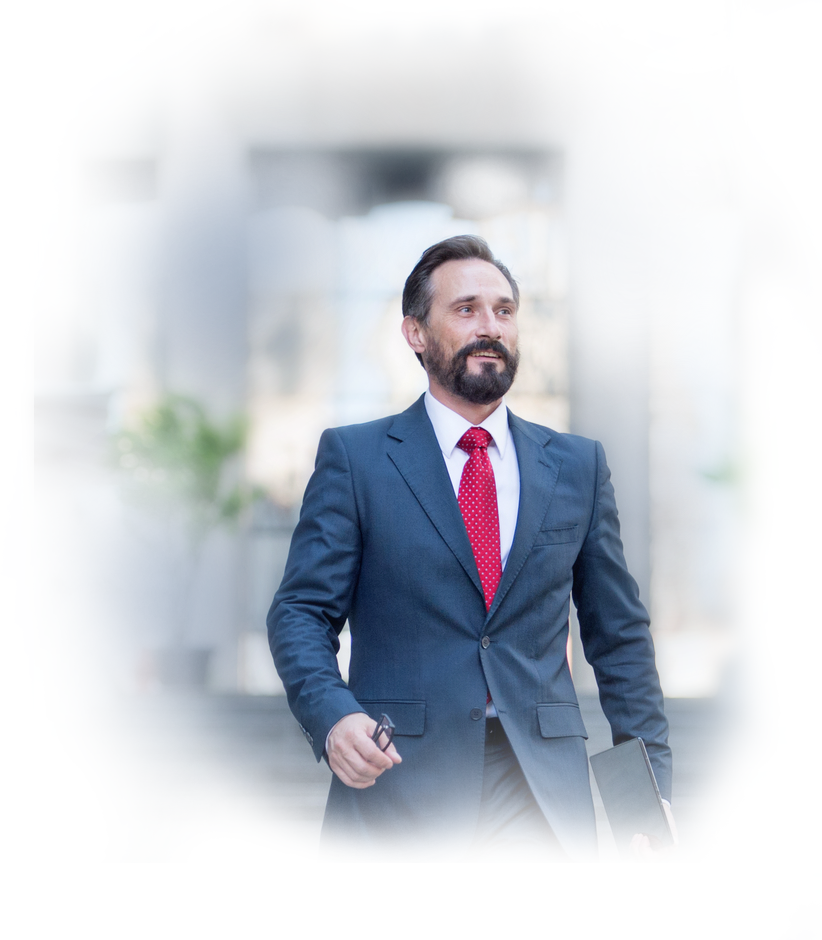
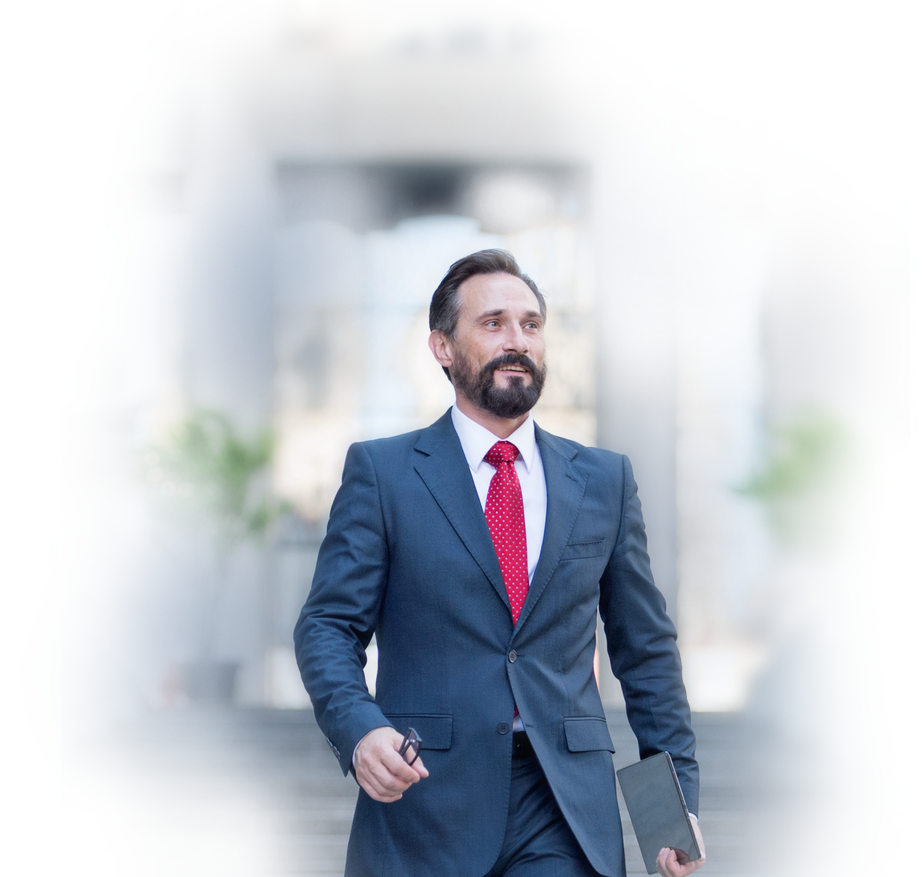
koushik commit

diff --git a/src/app/components/about-wirthlin/about-wirthlin.component.css b/src/app/components/about-wirthlin/about-wirthlin.component.css
@@ -231,7 +231,7 @@ filter: progid:DXImageTransform.Microsoft.gradient( startColorstr='#f5991a', end
 
 
 /* .b6 .b6-content{ width: auto;text-align: left;padding-right: 489px;} */
-.b6{ background: url('../../../assets/images/b6-imgbg.png') no-repeat right -8% top 60%;
+.b6{ background: url('../../../assets/images/b6-imgbg.png') no-repeat right -20% bottom 3%;
     padding: 12px 30px 12px;
     min-height: 1px;
     margin-top: -29%;
